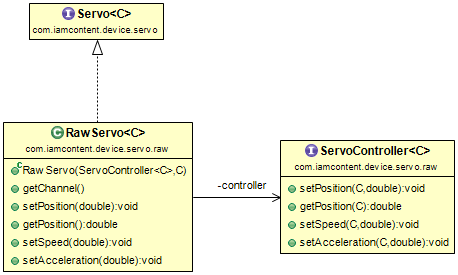
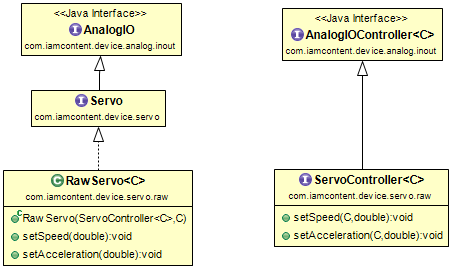
Modify Servo model so that it inherits from AnalogIO model where appropriate.

diff --git a/public-java/devices/iamcontent-servo-support/src/main/java/com/iamcontent/device/servo/calibrate/CalibratedServo.java b/public-java/devices/iamcontent-servo-support/src/main/java/com/iamcontent/device/servo/calibrate/CalibratedServo.java
@@ -17,60 +17,29 @@
  */
 package com.iamcontent.device.servo.calibrate;
 
-import static com.google.common.base.Preconditions.checkNotNull;
-
 import com.google.common.base.Function;
-import com.google.common.base.Functions;
+import com.iamcontent.device.analog.inout.CalibratedAnalogIO;
 import com.iamcontent.device.servo.Servo;
 
 /**
  * A {@link Servo} that alters its parameter values according to its {@link ServoCalibrator} and invokes a delegate {@link Servo}
  * with the altered parameter values.
  * @author Greg Elderfield
- * 
- * @param <C> The type used to identify the channel of a servo. 
  */
-public class CalibratedServo implements Servo {
+public class CalibratedServo extends CalibratedAnalogIO implements Servo {
 	
-	private static final Function<Double, Double> IDENTITY_FUNCTION = Functions.identity();
-	
-	private final Servo delegateServo;
-	private final Function<Double, Double> toDelegatePositionConverter;
-	private final Function<Double, Double> fromDelegatePositionConverter;
 	private final Function<Double, Double> toDelegateSpeedConverter;
 	private final Function<Double, Double> toDelegateAccelerationConverter;
 	
 	public CalibratedServo(Servo delegateServo, ServoCalibrator calibrator) {
-		checkArguments(delegateServo, calibrator);
-		this.delegateServo = delegateServo;
-		this.toDelegatePositionConverter = identityIfNull(calibrator.getPositionConverter());
-		this.fromDelegatePositionConverter = identityIfNull(calibrator.getPositionConverter().reverse());
+		super(delegateServo, calibrator.getPositionConverter());
 		this.toDelegateSpeedConverter = identityIfNull(calibrator.getSpeedConverter());
 		this.toDelegateAccelerationConverter = identityIfNull(calibrator.getAccelerationConverter());
 	}
 
 	@Override
-	public void setPosition(double position) {
-		delegateServo.setPosition(toDelegatePosition(position));
-	}
-
-	private double toDelegatePosition(double position) {
-		return toDelegatePositionConverter.apply(position);
-	}
-
-	@Override
-	public double getPosition() {
-		return fromDelegatePosition(delegateServo.getPosition());
-	}
-	
-	private double fromDelegatePosition(double position) {
-		return fromDelegatePositionConverter.apply(position);
-	}
-
-	@Override
 	public void setSpeed(double speed) {
-		if (toDelegateSpeedConverter!=null)
-			delegateServo.setSpeed(toDelegateSpeed(speed));
+		servo().setSpeed(toDelegateSpeed(speed));
 	}
 
 	private double toDelegateSpeed(double speed) {
@@ -79,21 +48,14 @@ public class CalibratedServo implements Servo {
 
 	@Override
 	public void setAcceleration(double acceleration) {
-		if (toDelegateAccelerationConverter!=null)
-			delegateServo.setAcceleration(toDelegateAcceleration(acceleration));
+		servo().setAcceleration(toDelegateAcceleration(acceleration));
 	}
-	
+
 	private double toDelegateAcceleration(double acceleration) {
 		return toDelegateAccelerationConverter.apply(acceleration);
 	}
-
-	private static void checkArguments(Servo delegateServo, ServoCalibrator calibrator) {
-		checkNotNull(delegateServo, "Delegate servo cannot be null.");
-		checkNotNull(calibrator, "Calibrator cannot be null.");
-		checkNotNull(calibrator.getPositionConverter(), "PositionConverter of calibrator cannot be null.");
-	}
-
-	private static Function<Double, Double> identityIfNull(Function<Double, Double> f) {
-		return f==null ? IDENTITY_FUNCTION : f;
+	
+	private Servo servo() {
+		return (Servo) delegate();
 	}
 }

diff --git a/public-java/devices/iamcontent-servo-support/src/main/java/com/iamcontent/device/servo/ServoSources.java b/public-java/devices/iamcontent-servo-support/src/main/java/com/iamcontent/device/servo/ServoSources.java
@@ -18,9 +18,9 @@
 package com.iamcontent.device.servo;
 
 import com.google.common.base.Function;
+import com.iamcontent.device.channel.PerChannelSource;
 import com.iamcontent.device.servo.calibrate.CalibratedServo;
 import com.iamcontent.device.servo.calibrate.ServoCalibrator;
-import com.iamcontent.device.servo.calibrate.ServoSourceCalibrator;
 import com.iamcontent.device.servo.raw.RawServo;
 import com.iamcontent.device.servo.raw.ServoController;
 
@@ -35,22 +35,22 @@ public final class ServoSources {
 	public static <C> ServoSource<C> rawServoSource(final ServoController<C> controller) {
 		return new ServoSource<C>() {
 			@Override
-			public Servo getServo(C channel) {
+			public Servo forChannel(C channel) {
 				return new RawServo<C>(controller, channel);
 			}
 		};
 	}
 
 	/**
-	 * @return A {@link ServoSource} of {@link CalibratedServo}s, calibrated by the given {@link ServoSourceCalibrator}. 
+	 * @return A {@link ServoSource} of {@link CalibratedServo}s, calibrated by the given per-channel calibrator. 
 	 * Each {@link Servo} from the returned source delegates to its corresponding {@link Servo} from the given {@link ServoSource}.
 	 */
-	public static <C> ServoSource<C> calibratedServoSource(final ServoSource<C> delegate, final ServoSourceCalibrator<C> calibrator) {
+	public static <C> ServoSource<C> calibratedServoSource(final ServoSource<C> delegate, final PerChannelSource<C, ServoCalibrator> calibrator) {
 		return new ServoSource<C>() {
 			@Override
-			public Servo getServo(C channel) {
-				final Servo delegateServo = delegate.getServo(channel);
-				final ServoCalibrator servoCalibrator = calibrator.getServoCalibrator(channel);
+			public Servo forChannel(C channel) {
+				final Servo delegateServo = delegate.forChannel(channel);
+				final ServoCalibrator servoCalibrator = calibrator.forChannel(channel);
 				return new CalibratedServo(delegateServo, servoCalibrator);
 			}
 		};
@@ -63,9 +63,9 @@ public final class ServoSources {
 	public static <C, D> ServoSource<C> reChanneledServoSource(final ServoSource<D> delegate, final Function<C, D> channelTranslation) {
 		return new ServoSource<C>() {
 			@Override
-			public Servo getServo(C channel) {
+			public Servo forChannel(C channel) {
 				final D delegateChannel = channelTranslation.apply(channel);
-				return delegate.getServo(delegateChannel);
+				return delegate.forChannel(delegateChannel);
 			}
 		};
 	}

diff --git a/public-java/devices/iamcontent-servo-support/src/main/java/com/iamcontent/device/servo/raw/RawServo.java b/public-java/devices/iamcontent-servo-support/src/main/java/com/iamcontent/device/servo/raw/RawServo.java
@@ -17,6 +17,7 @@
  */
 package com.iamcontent.device.servo.raw;
 
+import com.iamcontent.device.analog.inout.RawAnalogIO;
 import com.iamcontent.device.servo.Servo;
 
 /**
@@ -24,35 +25,25 @@ import com.iamcontent.device.servo.Servo;
  * arguments of the operations.
  * @author Greg Elderfield
  * 
- * @param <C> The type used to identify the channel of a servo. 
+ * @param <C> The type used to identify the channel of a {@link Servo}. 
  */
-public class RawServo<C> implements Servo {
+public class RawServo<C> extends RawAnalogIO<C> implements Servo {
 	
-	private final ServoController<C> controller;
-	private final C channel;
-	
-	public RawServo(ServoController<C> controller, C channel) {
-		this.controller = controller;
-		this.channel = channel;
-	}
-
-	@Override
-	public void setPosition(double position) {
-		controller.setPosition(channel, position);
-	}
-
-	@Override
-	public double getPosition() {
-		return controller.getPosition(channel);
+	public RawServo(ServoController<C> controller, C channelId) {
+		super(controller, channelId);
 	}
 
 	@Override
 	public void setSpeed(double speed) {
-		controller.setSpeed(channel, speed);
+		servoController().setSpeed(channelId, speed);
 	}
 
 	@Override
 	public void setAcceleration(double acceleration) {
-		controller.setAcceleration(channel, acceleration);
+		servoController().setAcceleration(channelId, acceleration);
+	}
+	
+	private ServoController<C> servoController() {
+		return (ServoController<C>) controller;
 	}
 }

diff --git a/public-java/devices/iamcontent-servo-support/src/test/java/com/iamcontent/device/servo/calibrate/gson/DefaultingServoSourceCalibratorDeserializerTest.java b/public-java/devices/iamcontent-servo-support/src/test/java/com/iamcontent/device/servo/calibrate/gson/DefaultingServoSourceCalibratorDeserializerTest.java
@@ -80,8 +80,8 @@ public class DefaultingServoSourceCalibratorDeserializerTest {
 	}
 
 	public static <C> void checkCalibrator(ServoSourceCalibrator<Integer> actual, int channel, double expectedFromLimit1, double expectedFromLimit2, double expectedToLimit1, double expectedToLimit2) {
-		final DoubleRange source = sourceRange(actual.getServoCalibrator(channel).getPositionConverter());
-		final DoubleRange target = targetRange(actual.getServoCalibrator(channel).getPositionConverter());
+		final DoubleRange source = sourceRange(actual.forChannel(channel).getPositionConverter());
+		final DoubleRange target = targetRange(actual.forChannel(channel).getPositionConverter());
 		final String message = "Channel " + channel;
 		assertExactlyEquals(message, expectedFromLimit1, source.getLimit1());
 		assertExactlyEquals(message, expectedFromLimit2, source.getLimit2());

diff --git a/public-java/devices/iamcontent-servo-support/src/main/java/com/iamcontent/device/servo/command/SequentialServoCommandExecutor.java b/public-java/devices/iamcontent-servo-support/src/main/java/com/iamcontent/device/servo/command/SequentialServoCommandExecutor.java
@@ -55,16 +55,16 @@ public class SequentialServoCommandExecutor<C> implements ServoCommandExecutor<C
 
 	private void setAcceleration(C channel, Double acceleration) {
 		if (acceleration!=null)
-			servoSource.getServo(channel).setAcceleration(acceleration);
+			servoSource.forChannel(channel).setAcceleration(acceleration);
 	}
 
 	private void setSpeed(C channel, Double speed) {
 		if (speed!=null)
-			servoSource.getServo(channel).setSpeed(speed);
+			servoSource.forChannel(channel).setSpeed(speed);
 	}
 
 	private void setPosition(C channel, Double position) {
 		if (position!=null)
-			servoSource.getServo(channel).setPosition(position);
+			servoSource.forChannel(channel).setValue(position);
 	}
 }

diff --git a/public-java/devices/iamcontent-servo-support/src/main/java/com/iamcontent/device/servo/raw/ServoController.java b/public-java/devices/iamcontent-servo-support/src/main/java/com/iamcontent/device/servo/raw/ServoController.java
@@ -17,15 +17,15 @@
  */
 package com.iamcontent.device.servo.raw;
 
+import com.iamcontent.device.analog.inout.AnalogIOController;
+
 /**
  * Defines a Servo controller that accepts 'raw' (i.e. non-normalized) values.
  * @author Greg Elderfield
  * 
  * @param <C> The type used to identify the channel of a servo. 
  */
-public interface ServoController<C> {
-	void setPosition(C channel, double value);
-	double getPosition(C channel);
-	void setSpeed(C channel, double speed);
-	void setAcceleration(C channel, double acceleration);
+public interface ServoController<C> extends AnalogIOController<C> {
+	void setSpeed(C channelId, double speed);
+	void setAcceleration(C channelId, double acceleration);
 }

diff --git a/public-java/devices/iamcontent-device-support/src/main/java/com/iamcontent/device/analog/out/CalibratedAnalogOutput.java b/public-java/devices/iamcontent-device-support/src/main/java/com/iamcontent/device/analog/out/CalibratedAnalogOutput.java
@@ -23,10 +23,8 @@ import com.iamcontent.device.calibrate.CalibratedDelegator;
 /**
  * An {@link AnalogOutput} that is calibrated by applying the given calibration function to values before they are set. 
  * @author Greg Elderfield
- * 
- * @param <C> The type used to identify the channel. 
  */
-public class CalibratedAnalogOutput<C> extends CalibratedDelegator<AnalogOutput> implements AnalogOutput {
+public class CalibratedAnalogOutput extends CalibratedDelegator<AnalogOutput> implements AnalogOutput {
 	
 	public CalibratedAnalogOutput(AnalogOutput delegate, Function<Double, Double> calibration) {
 		super(delegate, calibration);

diff --git a/public-java/devices/iamcontent-pololu-servo-controllers/src/test/java/com/iamcontent/device/controller/pololu/maestro/CalibratedPololuMaestroServoSourceIT.java b/public-java/devices/iamcontent-pololu-servo-controllers/src/test/java/com/iamcontent/device/controller/pololu/maestro/CalibratedPololuMaestroServoSourceIT.java
@@ -61,16 +61,16 @@ public class CalibratedPololuMaestroServoSourceIT extends AbstractPololuMaestroS
 
 	@Override
 	protected void setPosition(int channel, double position) {
-		getServo(channel).setPosition(position);
+		getServo(channel).setValue(position);
 	}
 
 	@Override
 	protected double getPosition(int channel) {
-		return getServo(channel).getPosition();
+		return getServo(channel).getValue();
 	}
 	
 	private Servo getServo(int channel) {
-		return calibratedServoSource.getServo(channel);
+		return calibratedServoSource.forChannel(channel);
 	}
 
 	private static ServoSource<Integer> calibratedServoSource() {

diff --git a/public-java/devices/iamcontent-pololu-servo-controllers/src/test/java/com/iamcontent/device/controller/pololu/maestro/RawPololuMaestroServoSourceIT.java b/public-java/devices/iamcontent-pololu-servo-controllers/src/test/java/com/iamcontent/device/controller/pololu/maestro/RawPololuMaestroServoSourceIT.java
@@ -61,16 +61,16 @@ public class RawPololuMaestroServoSourceIT extends AbstractPololuMaestroServoCar
 
 	@Override
 	protected void setPosition(int channel, double position) {
-		getServo(channel).setPosition(position);
+		getServo(channel).setValue(position);
 	}
 
 	@Override
 	protected double getPosition(int channel) {
-		return getServo(channel).getPosition();
+		return getServo(channel).getValue();
 	}
 	
 	private Servo getServo(int channel) {
-		return rawServoSource.getServo(channel);
+		return rawServoSource.forChannel(channel);
 	}
 
 	protected static ServoSource<Integer> rawServoSource() {

diff --git a/public-java/devices/iamcontent-servo-support/src/main/java/com/iamcontent/device/servo/calibrate/ServoSourceCalibrator.java b/public-java/devices/iamcontent-servo-support/src/main/java/com/iamcontent/device/servo/calibrate/ServoSourceCalibrator.java
@@ -17,6 +17,7 @@
  */
 package com.iamcontent.device.servo.calibrate;
 
+import com.iamcontent.device.channel.PerChannelSource;
 import com.iamcontent.device.servo.ServoSource;
 
 /**
@@ -25,9 +26,5 @@ import com.iamcontent.device.servo.ServoSource;
  * 
  * @param <C> The type used to identify the channel of a servo. 
  */
-public interface ServoSourceCalibrator<C> {
-	/**
-	 * @return The {@link ServoCalibrator} for the given channel.
-	 */
-	ServoCalibrator getServoCalibrator(C channel);
+public interface ServoSourceCalibrator<C> extends PerChannelSource<C, ServoCalibrator> {
 }

diff --git a/public-java/devices/iamcontent-device-support/src/main/java/com/iamcontent/device/analog/inout/CalibratedAnalogIO.java b/public-java/devices/iamcontent-device-support/src/main/java/com/iamcontent/device/analog/inout/CalibratedAnalogIO.java
@@ -24,10 +24,8 @@ import com.iamcontent.device.analog.out.CalibratedAnalogOutput;
 /**
  * An {@link AnalogIO} that is calibrated by applying the given calibration functions to values before they are set or returned. 
  * @author Greg Elderfield
- * 
- * @param <C> The type used to identify the channel. 
  */
-public class CalibratedAnalogIO<C> extends CalibratedAnalogOutput<C> implements AnalogIO {
+public class CalibratedAnalogIO extends CalibratedAnalogOutput implements AnalogIO {
 	
 	private final Function<Double, Double> inputCalibration;
 	

diff --git a/public-java/devices/iamcontent-servo-support/src/main/java/com/iamcontent/device/servo/ServoSource.java b/public-java/devices/iamcontent-servo-support/src/main/java/com/iamcontent/device/servo/ServoSource.java
@@ -17,12 +17,13 @@
  */
 package com.iamcontent.device.servo;
 
+import com.iamcontent.device.channel.PerChannelSource;
+
 /**
  * Represents a source of {@link Servo}s.
  * @author Greg Elderfield
  * 
- * @param <C> The type used to identify the channel of a servo. 
+ * @param <C> The type used to identify the channel of a {@link Servo}. 
  */
-public interface ServoSource<C> {
-	Servo getServo(C channelId);
+public interface ServoSource<C> extends PerChannelSource<C, Servo>{
 }
